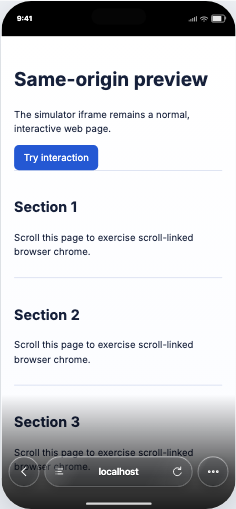
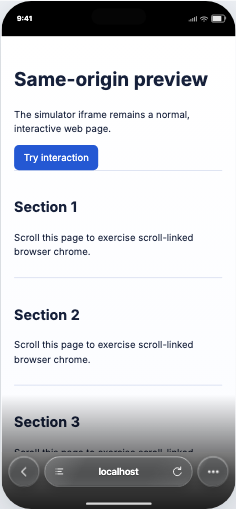
fix: reserve Safari chrome viewport space

diff --git a/src/profiles.ts b/src/profiles.ts
@@ -37,13 +37,13 @@ const fixed = (x: number, y: number, width: number, height: number): ChromeBehav
 const linked = (expanded: ContentRect, collapsed: ContentRect, collapseThresholdPx: number, expandThresholdPx: number, transitionMs: number): ChromeBehavior => ({ kind: "scroll-linked", expanded, collapsed, collapseThresholdPx, expandThresholdPx, transitionMs });
 
 export const BUILT_IN_BROWSERS = [
-  { id: "iphone-16/safari", deviceId: "iphone-16", browserId: "safari", label: "Safari", appearance: "ios26-safari", chrome: linked({ x: 0, y: 59, width: 393, height: 741 }, { x: 0, y: 59, width: 393, height: 741 }, 48, 24, 420), calibration: calibration("iOS 26 compact Safari", "Apple safe-area references") },
+  { id: "iphone-16/safari", deviceId: "iphone-16", browserId: "safari", label: "Safari", appearance: "ios26-safari", chrome: linked({ x: 0, y: 59, width: 393, height: 696 }, { x: 0, y: 59, width: 393, height: 741 }, 48, 24, 420), calibration: calibration("iOS 26 compact Safari", "Apple safe-area references") },
   { id: "iphone-16/safari-old", deviceId: "iphone-16", browserId: "safari-old", label: "Safari (Legacy)", appearance: "ios-safari-old", chrome: linked({ x: 0, y: 59, width: 393, height: 690 }, { x: 0, y: 59, width: 393, height: 759 }, 48, 24, 180), calibration: calibration("Pre-iOS-26 Safari", "Apple safe-area references") },
   { id: "iphone-16/instagram", deviceId: "iphone-16", browserId: "instagram", label: "Instagram", appearance: "instagram", chrome: fixed(0, 109, 393, 709), calibration: calibration("Instagram iOS July 2026", "descriptive reference snapshot") },
   { id: "iphone-16/tiktok", deviceId: "iphone-16", browserId: "tiktok", label: "TikTok", appearance: "tiktok", chrome: fixed(0, 107, 393, 711), calibration: calibration("TikTok iOS March 2026", "descriptive reference snapshot") },
   { id: "iphone-16/facebook", deviceId: "iphone-16", browserId: "facebook", label: "Facebook", appearance: "facebook", chrome: fixed(0, 111, 393, 707), calibration: calibration("Facebook iOS July 2026", "descriptive reference snapshot") },
   { id: "iphone-16/linkedin", deviceId: "iphone-16", browserId: "linkedin", label: "LinkedIn", appearance: "linkedin", chrome: fixed(0, 107, 393, 711), calibration: calibration("LinkedIn iOS July 2026", "descriptive reference snapshot") },
-  { id: "iphone-se/safari", deviceId: "iphone-se", browserId: "safari", label: "Safari", appearance: "ios26-safari", chrome: linked({ x: 0, y: 20, width: 375, height: 597 }, { x: 0, y: 20, width: 375, height: 597 }, 48, 24, 420), calibration: calibration("iOS 26 compact Safari", "Apple safe-area references") },
+  { id: "iphone-se/safari", deviceId: "iphone-se", browserId: "safari", label: "Safari", appearance: "ios26-safari", chrome: linked({ x: 0, y: 20, width: 375, height: 585 }, { x: 0, y: 20, width: 375, height: 597 }, 48, 24, 420), calibration: calibration("iOS 26 compact Safari", "Apple safe-area references") },
   { id: "iphone-se/safari-old", deviceId: "iphone-se", browserId: "safari-old", label: "Safari (Legacy)", appearance: "ios-safari-old", chrome: linked({ x: 0, y: 20, width: 375, height: 563 }, { x: 0, y: 20, width: 375, height: 603 }, 48, 24, 180), calibration: calibration("Pre-iOS-26 Safari", "Apple safe-area references") },
   { id: "iphone-se/instagram", deviceId: "iphone-se", browserId: "instagram", label: "Instagram", appearance: "instagram", chrome: fixed(0, 68, 375, 599), calibration: calibration("Instagram iOS July 2026", "descriptive reference snapshot") },
   { id: "iphone-se/tiktok", deviceId: "iphone-se", browserId: "tiktok", label: "TikTok", appearance: "tiktok", chrome: fixed(0, 66, 375, 601), calibration: calibration("TikTok iOS March 2026", "descriptive reference snapshot") },

diff --git a/tests/profiles.test.ts b/tests/profiles.test.ts
@@ -34,13 +34,13 @@ describe("simulator profiles", () => {
 
   it("preserves the explicit calibrated geometry for every built-in pair", () => {
     expect(BUILT_IN_BROWSERS.map(({ id, chrome }) => ({ id, chrome }))).toEqual([
-      { id: "iphone-16/safari", chrome: { kind: "scroll-linked", expanded: { x: 0, y: 59, width: 393, height: 741 }, collapsed: { x: 0, y: 59, width: 393, height: 741 }, collapseThresholdPx: 48, expandThresholdPx: 24, transitionMs: 420 } },
+      { id: "iphone-16/safari", chrome: { kind: "scroll-linked", expanded: { x: 0, y: 59, width: 393, height: 696 }, collapsed: { x: 0, y: 59, width: 393, height: 741 }, collapseThresholdPx: 48, expandThresholdPx: 24, transitionMs: 420 } },
       { id: "iphone-16/safari-old", chrome: { kind: "scroll-linked", expanded: { x: 0, y: 59, width: 393, height: 690 }, collapsed: { x: 0, y: 59, width: 393, height: 759 }, collapseThresholdPx: 48, expandThresholdPx: 24, transitionMs: 180 } },
       { id: "iphone-16/instagram", chrome: { kind: "fixed", content: { x: 0, y: 109, width: 393, height: 709 } } },
       { id: "iphone-16/tiktok", chrome: { kind: "fixed", content: { x: 0, y: 107, width: 393, height: 711 } } },
       { id: "iphone-16/facebook", chrome: { kind: "fixed", content: { x: 0, y: 111, width: 393, height: 707 } } },
       { id: "iphone-16/linkedin", chrome: { kind: "fixed", content: { x: 0, y: 107, width: 393, height: 711 } } },
-      { id: "iphone-se/safari", chrome: { kind: "scroll-linked", expanded: { x: 0, y: 20, width: 375, height: 597 }, collapsed: { x: 0, y: 20, width: 375, height: 597 }, collapseThresholdPx: 48, expandThresholdPx: 24, transitionMs: 420 } },
+      { id: "iphone-se/safari", chrome: { kind: "scroll-linked", expanded: { x: 0, y: 20, width: 375, height: 585 }, collapsed: { x: 0, y: 20, width: 375, height: 597 }, collapseThresholdPx: 48, expandThresholdPx: 24, transitionMs: 420 } },
       { id: "iphone-se/safari-old", chrome: { kind: "scroll-linked", expanded: { x: 0, y: 20, width: 375, height: 563 }, collapsed: { x: 0, y: 20, width: 375, height: 603 }, collapseThresholdPx: 48, expandThresholdPx: 24, transitionMs: 180 } },
       { id: "iphone-se/instagram", chrome: { kind: "fixed", content: { x: 0, y: 68, width: 375, height: 599 } } },
       { id: "iphone-se/tiktok", chrome: { kind: "fixed", content: { x: 0, y: 66, width: 375, height: 601 } } },

diff --git a/CHANGELOG.md b/CHANGELOG.md
@@ -7,6 +7,7 @@ All notable changes follow [Keep a Changelog](https://keepachangelog.com/en/1.1.
 ## 0.1.2 - 2026-07-12
 
 - Restore Safari's opaque black background behind expanded and collapsed bottom chrome.
+- Calibrate Safari's usable viewport so fixed and full-height content stays above expanded browser chrome.
 
 ## 0.1.1 - 2026-07-12
 